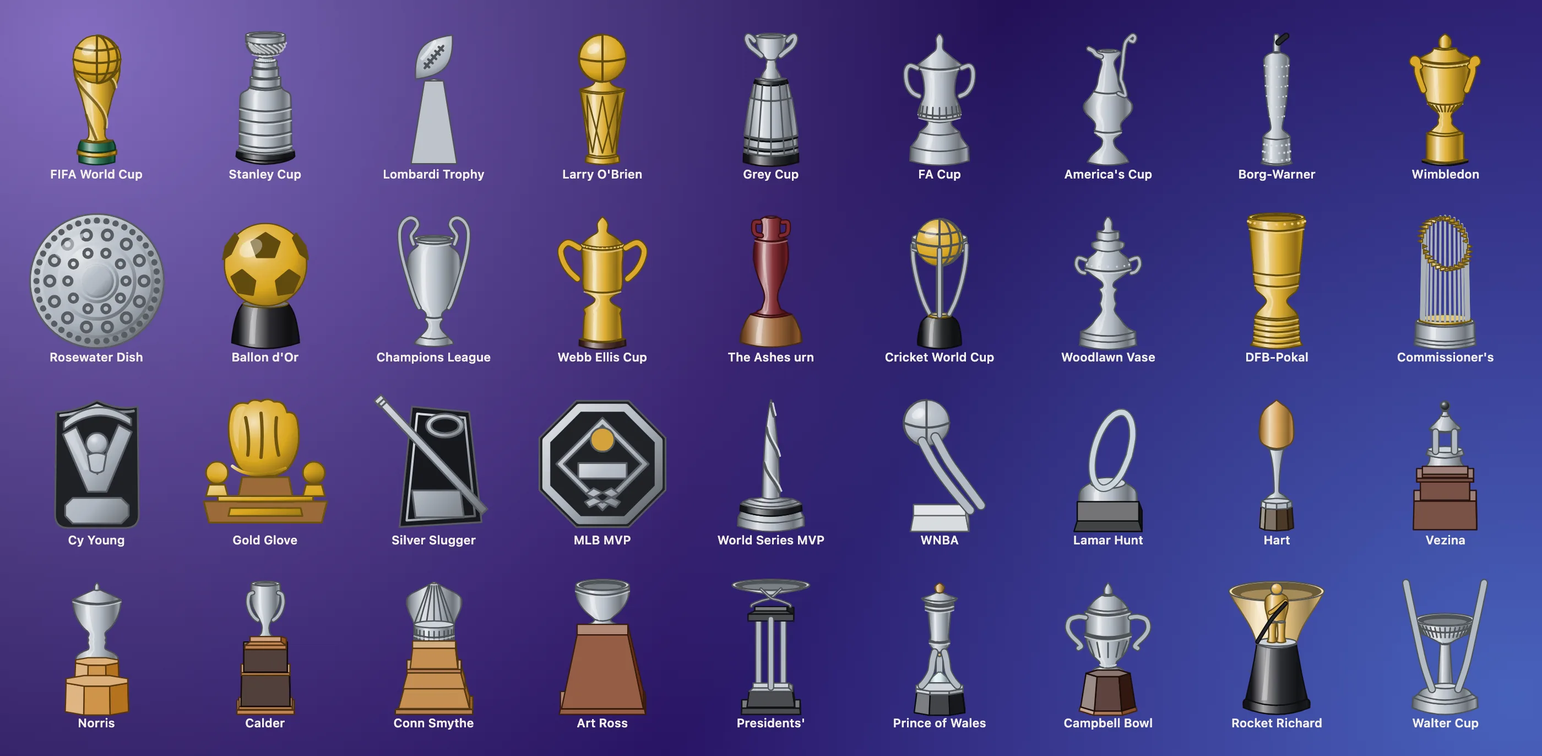
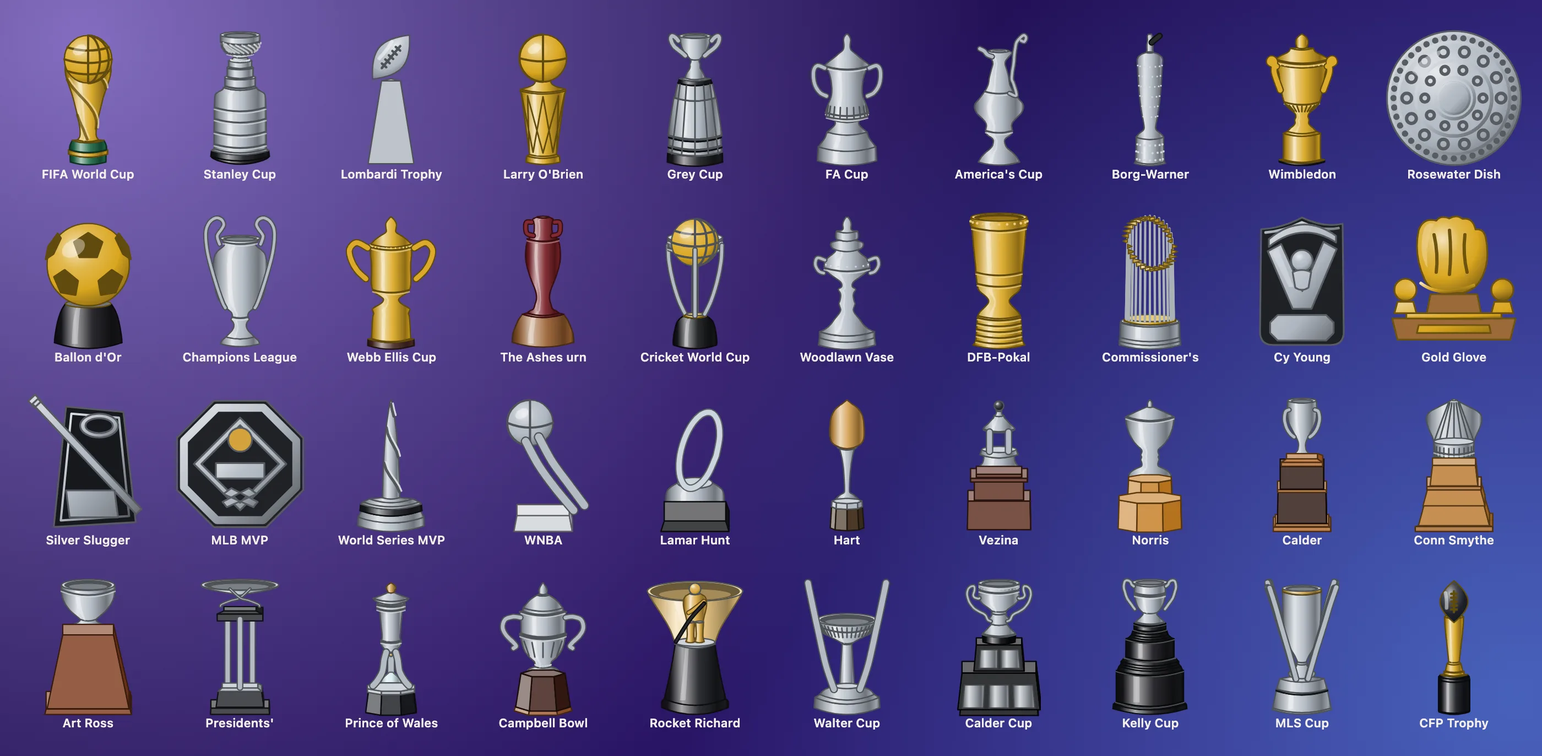
feat(trophy): Calder, Kelly, MLS Cup and CFP
Four league championship trophies measured on photographs of the real ones: the AHL's Calder Cup, the ECHL's Kelly Cup, the MLS Cup and the College Football Playoff trophy. Japanese names and descriptions reviewed.

diff --git a/scripts/screenshots.ts b/scripts/screenshots.ts
@@ -105,7 +105,7 @@ try {
     const styled = ["trophy:hockey-cup", "trophy:rugby-cup", "trophy:tennis-cup"].flatMap((id) => D.EMBLEM_STYLES.map((style) => one(id, { style, size: 144 }, style))).join("");
     return row(cups, 144) + row(awards, 144) + row(medals, 124) + styled;
   };
-  // Balls and pucks: soccer in its constructions and colours, the ball of every big sport, the small ones, and the odd ones out. Thirty-six, four rows of nine.
+  // Balls and pucks: soccer in its constructions and colours, the ball of every big sport, the small ones, and the odd ones out. Forty, four rows of ten.
   const balls = (D: Dist) => ["ball:soccer", "ball:soccer-26", "ball:soccer-14", "ball:soccer-6", "ball:soccer-orange", "ball:soccer-12-yellow", "ball:soccer-colour", "ball:futsal", "ball:beach-soccer",
     "ball:basketball", "ball:basketball-3x3", "ball:baseball", "ball:softball", "ball:football", "ball:rugby", "ball:afl", "ball:volleyball", "ball:beach-volleyball",
     "ball:tennis", "ball:padel", "ball:pickleball-outdoor", "ball:squash", "ball:racquetball", "ball:golf", "ball:cricket-red", "ball:cricket-pink", "ball:water-polo",
@@ -115,11 +115,11 @@ try {
   const vintage = (D: Dist) => ["ball:soccer-1870-hand-stitched", "ball:soccer-1900-laced", "ball:soccer-1930-18-panel", "ball:soccer-1950-12-panel", "ball:soccer-1960-32-panel-leather", "ball:baseball-lemon-peel", "ball:baseball-red-blue", "ball:baseball-black-red", "ball:baseball-vintage-leather",
     "ball:soccer-retro-pentagons", "ball:soccer-retro-leaves", "ball:soccer-retro-rosette", "ball:soccer-retro-star", "ball:soccer-retro-pinwheel", "ball:soccer-retro-kites", "ball:soccer-14-panel-double-border", "ball:soccer-8-panel-plain", "ball:soccer-6-panel-bands"]
     .map((id) => `<figure style="margin:0;display:flex;align-items:center;justify-content:center">${D.renderEmblem(id, { size: 146 })}</figure>`).join("");
-  // The famous trophies, each a likeness measured on a photograph (docs/likeness.md), with its name: the world's thirteen, the leagues' own and the NHL's main ones. Thirty-six, four rows of nine.
+  // The famous trophies, each a likeness measured on a photograph (docs/likeness.md), with its name: the world's thirteen, the leagues' own and the NHL's main ones. Forty, four rows of ten.
   const famous = (D: Dist, ink: Ink) => ([["fifa-world-cup", "FIFA World Cup"], ["stanley-cup", "Stanley Cup"], ["lombardi-trophy", "Lombardi Trophy"], ["larry-obrien-trophy", "Larry O'Brien"], ["grey-cup", "Grey Cup"], ["fa-cup", "FA Cup"], ["americas-cup", "America's Cup"], ["borg-warner-trophy", "Borg-Warner"], ["wimbledon-gentlemens-trophy", "Wimbledon"],
     ["venus-rosewater-dish", "Rosewater Dish"], ["ballon-dor", "Ballon d'Or"], ["champions-league-trophy", "Champions League"], ["webb-ellis-cup", "Webb Ellis Cup"], ["ashes-urn", "The Ashes urn"], ["cricket-world-cup", "Cricket World Cup"], ["woodlawn-vase", "Woodlawn Vase"], ["dfb-pokal", "DFB-Pokal"],
     ["commissioners-trophy", "Commissioner's"], ["cy-young-award", "Cy Young"], ["gold-glove-award", "Gold Glove"], ["silver-slugger-award", "Silver Slugger"], ["mlb-mvp-award", "MLB MVP"], ["world-series-mvp-trophy", "World Series MVP"], ["wnba-championship-trophy", "WNBA"], ["lamar-hunt-trophy", "Lamar Hunt"],
-    ["hart-trophy", "Hart"], ["vezina-trophy", "Vezina"], ["norris-trophy", "Norris"], ["calder-trophy", "Calder"], ["conn-smythe-trophy", "Conn Smythe"], ["art-ross-trophy", "Art Ross"], ["presidents-trophy", "Presidents'"], ["prince-of-wales-trophy", "Prince of Wales"], ["campbell-bowl", "Campbell Bowl"], ["rocket-richard-trophy", "Rocket Richard"], ["walter-cup", "Walter Cup"]] as const)
+    ["hart-trophy", "Hart"], ["vezina-trophy", "Vezina"], ["norris-trophy", "Norris"], ["calder-trophy", "Calder"], ["conn-smythe-trophy", "Conn Smythe"], ["art-ross-trophy", "Art Ross"], ["presidents-trophy", "Presidents'"], ["prince-of-wales-trophy", "Prince of Wales"], ["campbell-bowl", "Campbell Bowl"], ["rocket-richard-trophy", "Rocket Richard"], ["walter-cup", "Walter Cup"], ["calder-cup", "Calder Cup"], ["kelly-cup", "Kelly Cup"], ["mls-cup", "MLS Cup"], ["cfp-trophy", "CFP Trophy"]] as const)
     .map(([id, name]) => `<figure style="margin:0;display:flex;flex-direction:column;align-items:center;justify-content:center">${D.renderEmblem(`trophy:${id}`, { size: 128 })}<figcaption style="margin-top:-2px;color:${ink.muted}">${name}</figcaption></figure>`).join("");
   // Gear: thirty-six of the pieces.
   const gear = (D: Dist) => ["gear:hockey-stick", "gear:hockey-skate", "gear:goalie-mask", "gear:field-hockey-stick", "gear:lacrosse-stick", "gear:hurley", "gear:cricket-bat", "gear:wicket", "gear:baseball-bat",
@@ -148,7 +148,7 @@ try {
     await sheet(`balls-desk-${scheme}`, { width: 1400, cols: 9, rows: [150, 150, 150, 150], scheme, preset: "floodlights", intensity: 0.9 }, balls);
     await sheet(`vintage-desk-${scheme}`, { width: 1400, cols: 9, rows: [150, 150], scheme, preset: "sunburst" }, vintage);
     await sheet(`hero-desk-${scheme}`, { width: 1400, cols: 9, rows: [152, 152, 132, 160], scheme, preset: "royal", intensity: 0.9 }, trophies);
-    await sheet(`famous-desk-${scheme}`, { width: 1400, cols: 9, rows: [160, 160, 160, 160], scheme, preset: "royal", intensity: 0.9 }, famous);
+    await sheet(`famous-desk-${scheme}`, { width: 1400, cols: 10, rows: [160, 160, 160, 160], scheme, preset: "royal", intensity: 0.9 }, famous);
     await sheet(`gear-desk-${scheme}`, { width: 1400, cols: 9, rows: [150, 150, 150, 150], scheme, preset: scheme === "dark" ? "carbon" : "hardwood", intensity: scheme === "dark" ? 1 : 0.9 }, gear);
     await sheet(`phone-${scheme}`, { width: 390, cols: 3, rows: [124, 124, 124, 124], gap: 4, phone: true, scheme, preset: "glow" }, phoneCells);
     await sheet(`judogi-${scheme}`, { width: 1000, cols: 4, rows: [260], gap: 10, pad: 20, scheme, preset: scheme === "dark" ? "carbon" : "hardwood", intensity: scheme === "dark" ? 1 : 0.9 }, judogi);

diff --git a/src/emblems/emblem.descriptions.ts b/src/emblems/emblem.descriptions.ts
@@ -134,6 +134,10 @@ export const EMBLEM_DESCRIPTIONS: Readonly<Partial<Record<EmblemId, EmblemDescri
   "trophy:ashes-urn": { en: "The Ashes urn: a small terracotta urn with square handles on a turned wooden base.", ja: "テラコッタの小さな壺を描いています。四角い取っ手が付き、旋盤で削り出した木の台に載っています。イングランドとオーストラリアが戦うアッシズ・シリーズの象徴として、ローズ・クリケット・グラウンドに保管されています。" },
   "trophy:webb-ellis-cup": { en: "The Webb Ellis Cup: a gilt lidded two-handled cup with a pineapple finial on a round plinth.", ja: "金色のふた付きカップを描いています。取っ手が二つあり、ふたの上にパイナップル形の飾りが付いて、丸い台座に載っています。男子のラグビーワールドカップの優勝チームに贈られます。" },
   "trophy:champions-league-trophy": { en: "The UEFA Champions League trophy: a tall silver urn with two long looping handles.", ja: "UEFAチャンピオンズリーグ・トロフィー。長い取っ手が二つ輪を描く、背の高い銀の壺を描いています。UEFAチャンピオンズリーグの優勝クラブに贈られます。" },
+  "trophy:calder-cup": { en: "The Calder Cup: a two-handled silver bowl with a band of laurel leaves round its rim, on a knobbed stem that flares to a bell, over a black round plinth and two stepped black blocks with plates.", ja: "カルダー・カップは、縁に月桂樹の葉の帯をめぐらせ、持ち手が2つある銀色のボウルが、こぶのある脚の上に載る姿を描いています。脚は鐘の形に広がり、黒い丸い台座と、板をはめた2段の黒い角台の上に立っています。アメリカン・ホッケー・リーグ（AHL）の優勝チームに贈られます。" },
+  "trophy:kelly-cup": { en: "The Kelly Cup: a small two-handled silver cup with two thin rings under its lip, on a stack of three black drums with silver-edged plate bands, the lowest the widest.", ja: "ケリー・カップは、口縁の下に細い輪を2本めぐらせ、持ち手が2つある小さな銀色のカップが、銀で縁取った板の帯を巻いた3段の黒い円筒の台座の上に立つ姿を描いています。下の段ほど幅が広くなっています。ECHLの優勝チームに贈られます。" },
+  "trophy:cfp-trophy": { en: "The College Football Playoff trophy: an upright dark football with a gilt rim on a tall slim gold column that narrows to a small collar, over a black drum with a plate band.", ja: "CFPトロフィーは、縁が金色で縦に立てた黒いフットボールが、背の高い細い金色の柱の上に載る姿を描いています。柱は上へ細くすぼまって小さな受け皿になり、板の帯を巻いた黒い円筒の台座の上に立っています。カレッジフットボール・プレーオフの全米王者に贈られます。" },
+  "trophy:mls-cup": { en: "The MLS Cup: a tall silver goblet with a gilt rim on a flared round pedestal with one dark groove, and four fluted blades that rise from its stem and lean out past the rim.", ja: "MLSカップは、金色の縁をもつ背の高い銀色のゴブレットが、裾の広がった丸い台座の上に載る姿を描いています。台座には溝が1本刻まれています。脚から立ち上がる溝入りの4枚の羽根状の飾りが、縁の外側へ傾いています。メジャーリーグサッカー（MLS）のプレーオフの優勝クラブに贈られます。" },
   "trophy:championship-banner": { en: "A fringed banner on a pole with a gilt finial and an embroidered border, with no lettering unless some is given", ja: "金の先端飾りの付いた竿に掛けた、刺繍の縁と房の付いた旗。文字は指定したときだけ入る" },
   "sport:sumo": { en: "Two wrestlers in the crouch they face each other in at the start of a bout, with their belts", ja: "仕切りの姿勢で向かい合う、廻しを締めた二人の力士" },
   "sport:handball": { en: "A hand throwing the ball, with lines of speed", ja: "ボールを投げる手と、速さを表す線" },

diff --git a/src/emblems/trophy/kelly-cup.ts b/src/emblems/trophy/kelly-cup.ts
@@ -1,0 +1,34 @@
+// A small two-handled silver cup with a straight-sided bowl, two thin rings under its lip and a short flared foot, standing on a black stack of three drums, each wrapped in a plate band edged with silver, the lowest the widest, on a flat black disc. Drawn for this package
+// from a photograph of the cup on its base (docs/likeness.md): the heights and radii are measured on it, and the plate bands are left plain, for the engraving option.
+import { defineLathe } from "../emblem.lathe.ts";
+
+/** The Kelly Cup of the ECHL: a two-handled silver cup on three black drums with silver-edged bands. */
+export const TROPHY_KELLY_CUP = /* @__PURE__ */ defineLathe("trophy:kelly-cup", "Kelly Cup", "ケリー・カップ", "ours", {
+  metal: "silver",
+  box: "-1.3 -0.7 66.6 66.6",
+  turnBox: "-13.1 -10.7 90.2 90.2",
+  tones: { dark: "#17181c" },
+  tilt: 9,
+  solids: [
+    {
+      open: true,
+      p: [
+        [1.95, 8.2, 1], [2.4, 8.4], [2.9, 8.2, 1], [3.1, 7.4, 1], [4.5, 7.35], [9, 7.3], [9.4, 7.1], [11, 6.7], [12.6, 6.2], [14.2, 5.4], [15.2, 4.6], [15.9, 3.8], [16.4, 3.3, 1], [17.3, 3.2],
+        [17.7, 3.6], [18.3, 4.2], [19.1, 4.9], [19.9, 5.9], [20.5, 6.5], [20.8, 6.7, 1],
+        [21.1, 7, 1, "dark"], [21.6, 7.5, 1, "dark"], [21.7, 7.5, 1, "main"], [22, 7.5, 1, "main"], [22.1, 7.5, 1, "dark"], [24.2, 7.5, 1, "dark"], [24.3, 7.5, 1, "main"], [24.6, 7.5, 1, "main"],
+        [24.7, 7.8, 1, "dark"], [25.4, 8.2, 1, "dark"], [26.8, 8.6, 1, "dark"], [27.8, 9.5, 1, "dark"], [28.6, 10.6, 1, "dark"],
+        [28.7, 11.35, 1, "main"], [29.1, 11.35, 1, "main"], [29.2, 11.35, 1, "dark"], [37.3, 11.4, 1, "dark"], [37.4, 11.4, 1, "main"], [37.8, 11.4, 1, "main"],
+        [37.9, 12.2, 1, "dark"], [39.5, 13.6, 1, "dark"], [40.8, 13.7, 1, "dark"], [41.8, 14.6, 1, "dark"], [43.6, 15.4, 1, "dark"],
+        [43.7, 15.9, 1, "main"], [44.1, 15.9, 1, "main"], [44.2, 15.9, 1, "dark"], [58.2, 15.9, 1, "dark"], [58.3, 15.9, 1, "main"], [58.7, 15.9, 1, "main"],
+        [58.8, 16.2, 1, "dark"], [59.6, 17.2, 1, "dark"], [61.7, 17.5, 1, "dark"],
+      ],
+      decor: [["ring", 7.1], ["ring", 7.9]],
+    },
+  ],
+  handles: [90, -90].map((a) => ({
+    a,
+    w: 1.0,
+    pts: [[7.6, 3.95], [8.6, 3.2], [9.2, 1.9], [10.5, 1.15], [11.8, 1.6], [12.3, 3.4], [12.2, 5.3], [11.9, 6.2], [10.9, 9.4], [8.7, 12.6], [7.1, 14.8]] as const,
+  })),
+  plate: { y0: 44.2, y1: 58.2 },
+});

diff --git a/src/emblems/trophy/calder-cup.ts b/src/emblems/trophy/calder-cup.ts
@@ -1,0 +1,33 @@
+// A silver two-handled bowl with a band of laurel leaves round its rim, on a knobbed stem that flares to a bell over a black round plinth, standing on two black blocks of wood, the upper narrower than the lower, each with plates on its faces. Drawn for this package from
+// photographs of the cup (docs/likeness.md): the heights and radii are measured on them, and the plates, the lettering and the laurel's leaves are left plain.
+import { defineLathe } from "../emblem.lathe.ts";
+import { LATHE_EXTRAS } from "../lathe.extras.ts";
+
+/** The Calder Cup of the American Hockey League: a two-handled bowl with a laurel band on a knobbed stem, over a black plinth and two stepped black blocks. */
+export const TROPHY_CALDER_CUP = /* @__PURE__ */ defineLathe("trophy:calder-cup", "Calder Cup", "カルダー・カップ", "ours", {
+  extras: LATHE_EXTRAS,
+  metal: "silver",
+  turnBox: "-14.9 -8.7 93.9 93.9",
+  tones: { dark: "#08090b", plate: "#9aa1a8" },
+  tilt: 9,
+  solids: [
+    { sides: 4, turn: -45, tone: "dark", p: [[29.5, 14.5, 1, "dark"], [41.2, 16.1, 1, "dark"], [41.2, 23.8, 1, "dark"], [57.6, 26.4, 1, "dark"], [57.6, 24.8, 1, "dark"], [60.3, 25.2, 1, "dark"]],
+      decor: [["panel", 0, 31.7, 39.9, 0.1, 0.47, "plate"], ["panel", 0, 31.7, 39.9, 0.54, 0.92, "plate"], ["panel", 0, 46.6, 56.8, 0.053, 0.31, "plate"], ["panel", 0, 46.6, 56.8, 0.375, 0.625, "plate"], ["panel", 0, 46.6, 56.8, 0.684, 0.94, "plate"]] },
+    {
+      open: true,
+      p: [
+        [3, 9.3, 1], [3.5, 9.1], [6.2, 9.1, 1], [6.6, 8.7, 1], [7.6, 9.1], [8.5, 9.3], [10.5, 9], [12.6, 7.4], [14.8, 4.2], [15.7, 3.2, 1],
+        [16.9, 3.4, 1], [17.6, 3.2], [18.5, 4], [19.4, 4.6], [20.4, 4.1], [21.2, 3.4], [21.7, 3.5, 1],
+        [22.5, 4.2], [23.5, 5], [24.8, 6.4], [26, 7.5, 1], [26.4, 7.6, 1],
+        [26.5, 7.5, 1, "dark"], [28.5, 7.4, 0, "dark"], [29.8, 7.3, 1, "dark"],
+      ],
+      decor: [["ring", 3.5], ["ring", 6.2], ["dots", 4.85, 30, 0.45]],
+    },
+  ],
+  handles: [90, -90].map((a) => ({
+    a,
+    w: 0.8,
+    pts: [[3.7, 20.4], [5.1, 19.7], [5.9, 18], [7.1, 16.9], [9, 16], [11.2, 14.6], [13.1, 12.3], [14, 10.3], [14.5, 8], [14.1, 6], [13.1, 4.8], [11.7, 4.4], [11.1, 5.05], [11.2, 6.6], [11.7, 8.5], [11.1, 9.6], [9.4, 10.05], [8.8, 9.9]] as const,
+  })),
+  plate: { y0: 46.5, y1: 56.5, face: 0 },
+});

diff --git a/src/emblems/emblem.named.ts b/src/emblems/emblem.named.ts
@@ -526,6 +526,46 @@ export const NAMED_TROPHIES: readonly NamedTrophy[] = [
     first: "1976",
     reference: "An auction photograph of a 1981 trophy standing on its base (SCP Auctions lot image), looked at and measured only; not copied; not ours to licence. No photograph on Wikimedia Commons (searched 2026-10-27).",
   },
+  {
+    id: "trophy:calder-cup",
+    name: "Calder Cup",
+    sport: "hockey",
+    competition: "American Hockey League",
+    kind: "champion",
+    honours: "The champion of the AHL's playoffs.",
+    first: "1936-37",
+    reference: "File:LAM 8801 (16408891091).jpg (Wikimedia Commons, CC BY 2.0) for the profile, with File:Calder Cup.JPG (CC BY 3.0) and File:Calder Cup at Crouse Hospital in Syracuse, New York (8960910887).jpg (CC BY-SA 2.0); looked at and measured only; not copied.",
+  },
+  {
+    id: "trophy:kelly-cup",
+    name: "Kelly Cup",
+    sport: "hockey",
+    competition: "ECHL",
+    kind: "champion",
+    honours: "The champion of the ECHL's playoffs (the Patrick J. Kelly Cup).",
+    first: "1997",
+    reference: "File:Kelly Cup.jpg (Wikimedia Commons, CC BY-SA 3.0), looked at and measured only; not copied.",
+  },
+  {
+    id: "trophy:cfp-trophy",
+    name: "College Football Playoff National Championship Trophy",
+    sport: "football",
+    competition: "College Football Playoff",
+    kind: "champion",
+    honours: "The national champion of NCAA Division I college football (FBS).",
+    first: "2015",
+    reference: "File:2019 CFP - trophy on the sidelines (crop).jpg (Wikimedia Commons, CC BY-SA 4.0), a photograph of the trophy standing at a distance, looked at and measured only; not copied.",
+  },
+  {
+    id: "trophy:mls-cup",
+    name: "MLS Cup",
+    sport: "soccer",
+    competition: "Major League Soccer",
+    kind: "champion",
+    honours: "The champion of Major League Soccer's playoffs (the Philip F. Anschutz Trophy).",
+    first: "1996",
+    reference: "File:KC Ballet & Sporting KC (11232058043).jpg (Wikimedia Commons, CC BY 2.0), looked at and measured only; not copied.",
+  },
 ];
 
 /** The facts of a named trophy by its emblem id, or `undefined` for a generic trophy. */

diff --git a/src/emblems/trophy/mls-cup.ts b/src/emblems/trophy/mls-cup.ts
@@ -1,0 +1,26 @@
+// A tall silver goblet with a gilt rim, narrowing to a slim stem and a small knob, on a flared round pedestal with one dark groove, with four slender fluted blades that rise from the knob and lean out past the rim, each a few parallel strips,
+// two in front and two behind. Drawn for this package from photographs of the trophy (docs/likeness.md): the blades are bundles of tubes, the fluting is left to the strips, and the plate on the pedestal and the stars are left out.
+import { defineLathe } from "../emblem.lathe.ts";
+
+const BLADE = [[3.2, 47.4], [7.3, 34.2], [10.8, 23.8], [14.2, 13.3], [17.6, 4]] as const;
+const strips = (a: number) => [-3.4, 0, 3.4].map((d) => ({ a: a + d, w: 2, pts: BLADE }));
+
+/** The MLS Cup (the Philip F. Anschutz Trophy): a tall silver goblet with a gilt rim on a flared pedestal, with four fluted blades leaning out from its stem. */
+export const TROPHY_MLS_CUP = /* @__PURE__ */ defineLathe("trophy:mls-cup", "MLS Cup", "MLSカップ", "ours", {
+  metal: "silver",
+  box: "-0.8 0 65.6 65.6",
+  turnBox: "-13.3 -14.2 90.5 90.5",
+  tones: { gilt: "#c9a24a", dark: "#2a2c31" },
+  tilt: 9,
+  solids: [
+    {
+      open: true,
+      p: [
+        [5.5, 9, 1, "gilt"], [7.2, 9.1, 1, "gilt"], [7.3, 9.05, 1, "main"], [13.3, 9], [20.3, 8.8], [27.2, 7.8], [30.7, 6.5], [34.2, 5], [36.3, 3.6], [38.4, 2.6], [39.8, 2, 1], [40.8, 2.6, 1], [41.7, 2.2], [43.8, 5.2], [45, 6.6], [46.7, 5.4, 1],
+        [47.6, 10.3, 1], [52.1, 11.7], [52.4, 11.8, 1, "dark"], [53.2, 12, 1, "dark"], [53.3, 12, 1, "main"], [61.2, 13.6, 1], [62, 13.8, 1],
+      ],
+    },
+  ],
+  handles: [...strips(62), ...strips(-62), ...strips(118), ...strips(-118)],
+  plate: { y0: 55, y1: 60 },
+});

diff --git a/src/emblems/trophy/cfp-trophy.ts b/src/emblems/trophy/cfp-trophy.ts
@@ -1,0 +1,22 @@
+// An upright dark football with a gilt rim, set on a tall slim column of gold that is widest under the ball and narrows toward a small flared collar, over a black round drum with a plate band. Drawn for this package from photographs
+// of the trophy standing on its base (docs/likeness.md), at a distance, so it is approximate: the ball's laces are the engine's, and the lettering and the marks on the drum and the column are left out.
+import { defineLathe } from "../emblem.lathe.ts";
+
+/** The College Football Playoff national championship trophy: an upright football on a tall gold column that narrows to a collar, over a black drum. */
+export const TROPHY_CFP_TROPHY = /* @__PURE__ */ defineLathe("trophy:cfp-trophy", "CFP Trophy", "CFPトロフィー", "ours", {
+  metal: "gold",
+  box: "-0.4 0 64.7 64.7",
+  turnBox: "-3.1 0 70 70",
+  tones: { dark: "#14161b", ball: "#1c2029" },
+  tilt: 9,
+  solids: [
+    {
+      p: [
+        [18.5, 4.4, 1], [24, 4.1], [32, 3.2], [39.2, 2.4, 1], [40.1, 3.2, 1], [43.4, 4, 1], [43.6, 4.6, 1], [45, 4.6, 1],
+        [45.1, 6.2, 1, "dark"], [46, 7, 1, "dark"], [47.5, 7.15, 1, "dark"], [61.7, 7.15, 1, "dark"], [62.2, 6.9, 1, "dark"],
+      ],
+    },
+  ],
+  balls: [{ kind: "football", cx: 32, cy: 11.6, r: 6.35, ry: 9.6, tone: "ball" }],
+  plate: { y0: 48, y1: 58, face: 0 },
+});

diff --git a/src/emblems/emblem.registry.ts b/src/emblems/emblem.registry.ts
@@ -72,6 +72,10 @@ import { TROPHY_FIFA_WORLD_CUP } from "./trophy/fifa-world-cup.ts";
 import { TROPHY_WOODLAWN_VASE } from "./trophy/woodlawn-vase.ts";
 import { TROPHY_DFB_POKAL } from "./trophy/dfb-pokal.ts";
 import { TROPHY_CHAMPIONS_LEAGUE_TROPHY } from "./trophy/champions-league-trophy.ts";
+import { TROPHY_CALDER_CUP } from "./trophy/calder-cup.ts";
+import { TROPHY_KELLY_CUP } from "./trophy/kelly-cup.ts";
+import { TROPHY_CFP_TROPHY } from "./trophy/cfp-trophy.ts";
+import { TROPHY_MLS_CUP } from "./trophy/mls-cup.ts";
 import { TROPHY_WEBB_ELLIS_CUP } from "./trophy/webb-ellis-cup.ts";
 import { TROPHY_FA_CUP } from "./trophy/fa-cup.ts";
 import { TROPHY_CRICKET_WORLD_CUP } from "./trophy/cricket-world-cup.ts";
@@ -182,6 +186,10 @@ const OWN: Readonly<Record<Exclude<EmblemId, `ball:${string}` | `puck:${string}`
   "trophy:fa-cup": TROPHY_FA_CUP,
   "trophy:webb-ellis-cup": TROPHY_WEBB_ELLIS_CUP,
   "trophy:champions-league-trophy": TROPHY_CHAMPIONS_LEAGUE_TROPHY,
+  "trophy:calder-cup": TROPHY_CALDER_CUP,
+  "trophy:kelly-cup": TROPHY_KELLY_CUP,
+  "trophy:cfp-trophy": TROPHY_CFP_TROPHY,
+  "trophy:mls-cup": TROPHY_MLS_CUP,
   "trophy:dfb-pokal": TROPHY_DFB_POKAL,
   "trophy:woodlawn-vase": TROPHY_WOODLAWN_VASE,
   "trophy:fifa-world-cup": TROPHY_FIFA_WORLD_CUP,

diff --git a/test/emblem.test.ts b/test/emblem.test.ts
@@ -24,10 +24,10 @@ const NAMED_LIMIT = { metal: 9000, line: 4800, color: 7200 } as const;
 const BIG_LIMIT = { metal: 14000, line: 13000, color: 14000 } as const;
 const isPiece = (id: D.EmblemId): boolean => D.emblemInfo(id).kind === "ball" || D.emblemInfo(id).kind === "gear";
 
-test("the ids number 330 in their groups, with no id twice, and the groups hold what they say", () => {
+test("the ids number 334 in their groups, with no id twice, and the groups hold what they say", () => {
   assert.equal(new Set(D.EMBLEM_IDS).size, D.EMBLEM_IDS.length);
-  assert.equal(D.EMBLEM_IDS.length, 330);
-  assert.deepEqual(Object.fromEntries(Object.entries(D.EMBLEM_GROUPS).map(([group, ids]) => [group, ids.length])), { award: 6, trophy: 74, medal: 6, crest: 4, ball: 118, puck: 8, gear: 71, sport: 42, pennant: 1 });
+  assert.equal(D.EMBLEM_IDS.length, 334);
+  assert.deepEqual(Object.fromEntries(Object.entries(D.EMBLEM_GROUPS).map(([group, ids]) => [group, ids.length])), { award: 6, trophy: 78, medal: 6, crest: 4, ball: 118, puck: 8, gear: 71, sport: 42, pennant: 1 });
 });
 
 // The ids of the trophies drawn as a likeness of one real trophy (docs/likeness.md): they may carry the trophy's own name, and so are held to the limits of a detailed drawing.

diff --git a/src/index.ts b/src/index.ts
@@ -77,6 +77,10 @@ export { TROPHY_FIFA_WORLD_CUP } from "./emblems/trophy/fifa-world-cup.ts";
 export { TROPHY_WOODLAWN_VASE } from "./emblems/trophy/woodlawn-vase.ts";
 export { TROPHY_DFB_POKAL } from "./emblems/trophy/dfb-pokal.ts";
 export { TROPHY_CHAMPIONS_LEAGUE_TROPHY } from "./emblems/trophy/champions-league-trophy.ts";
+export { TROPHY_CALDER_CUP } from "./emblems/trophy/calder-cup.ts";
+export { TROPHY_KELLY_CUP } from "./emblems/trophy/kelly-cup.ts";
+export { TROPHY_CFP_TROPHY } from "./emblems/trophy/cfp-trophy.ts";
+export { TROPHY_MLS_CUP } from "./emblems/trophy/mls-cup.ts";
 export { TROPHY_WEBB_ELLIS_CUP } from "./emblems/trophy/webb-ellis-cup.ts";
 export { TROPHY_FA_CUP } from "./emblems/trophy/fa-cup.ts";
 export { TROPHY_CRICKET_WORLD_CUP } from "./emblems/trophy/cricket-world-cup.ts";

diff --git a/src/emblems/emblem.ids.ts b/src/emblems/emblem.ids.ts
@@ -71,6 +71,10 @@ export const TROPHY_IDS = [
   "trophy:ashes-urn",
   "trophy:borg-warner-trophy",
   "trophy:americas-cup",
+  "trophy:calder-cup",
+  "trophy:kelly-cup",
+  "trophy:cfp-trophy",
+  "trophy:mls-cup",
 ] as const;
 export type TrophyId = (typeof TROPHY_IDS)[number];
 

diff --git a/docs/famous-trophies.md b/docs/famous-trophies.md
@@ -7,7 +7,7 @@ A trophy that stands for one real trophy is drawn as a very close likeness of it
 <p align="center">
 <picture>
 <source media="(prefers-color-scheme: dark)" srcset="https://raw.githubusercontent.com/johnmorrisdotca/dougu-sports/main/docs/images/famous-desk-dark.webp">
-<img alt="Thirty-six named trophies on royal purple, in four rows of nine, each with its name under it: the FIFA World Cup, the Stanley Cup, the Lombardi Trophy, the Larry O'Brien trophy, the Grey Cup, the FA Cup, the America's Cup, the Borg-Warner Trophy and the Wimbledon gentlemen's trophy; then the Venus Rosewater Dish, the Ballon d'Or, the Champions League trophy, the Webb Ellis Cup, the Ashes urn, the Cricket World Cup, the Woodlawn Vase, the DFB-Pokal and the Commissioner's Trophy; then the baseball awards (Cy Young, Gold Glove, Silver Slugger, MLB MVP, World Series MVP), the WNBA trophy, the Lamar Hunt Trophy, the Hart and the Vezina; and last the Norris, Calder, Conn Smythe, Art Ross, Presidents', Prince of Wales, Campbell Bowl, Rocket Richard and Walter Cup." src="https://raw.githubusercontent.com/johnmorrisdotca/dougu-sports/main/docs/images/famous-desk-light.webp" width="760">
+<img alt="Forty named trophies on royal purple, in four rows of ten, each with its name under it: the FIFA World Cup, the Stanley Cup, the Lombardi Trophy, the Larry O'Brien trophy, the Grey Cup, the FA Cup, the America's Cup, the Borg-Warner Trophy and the Wimbledon gentlemen's trophy; then the Venus Rosewater Dish, the Ballon d'Or, the Champions League trophy, the Webb Ellis Cup, the Ashes urn, the Cricket World Cup, the Woodlawn Vase, the DFB-Pokal and the Commissioner's Trophy; then the baseball awards (Cy Young, Gold Glove, Silver Slugger, MLB MVP, World Series MVP), the WNBA trophy, the Lamar Hunt Trophy, the Hart and the Vezina; then the Norris, Calder, Conn Smythe, Art Ross, Presidents', Prince of Wales, Campbell Bowl, Rocket Richard and Walter Cup; and the Calder Cup, the Kelly Cup, the MLS Cup and the college football playoff trophy." src="https://raw.githubusercontent.com/johnmorrisdotca/dougu-sports/main/docs/images/famous-desk-light.webp" width="760">
 </picture>
 </p>
 
@@ -31,7 +31,7 @@ console.log(facts.name, facts.sport, facts.first); // Stanley Cup hockey 1893
 ## What is drawn
 
 - **The world's most famous trophies:** the FIFA World Cup, the Woodlawn Vase, the Borg-Warner Trophy, the FA Cup, the America's Cup, the Cricket World Cup, the Gentlemen's Singles Trophy of Wimbledon, the Venus Rosewater Dish, the Ballon d'Or, the DFB-Pokal, the Ashes urn, the Webb Ellis Cup and the UEFA Champions League trophy.
-- **The NHL's:** the Stanley Cup and the Hart, Vezina, Norris, Calder, Art Ross, Conn Smythe, Lady Byng, Selke, Jennings, Masterton, King Clancy, Jack Adams, Presidents', Prince of Wales, Campbell Bowl, Rocket Richard, Ted Lindsay and Lester Patrick trophies, and the Paterson Cup of the PCHA (1912).
-- **The other leagues':** the Lombardi Trophy, the Larry O'Brien Championship Trophy, the Bill Russell Trophy, the Commissioner's Trophy, the Grey Cup, the Cy Young, Gold Glove, Silver Slugger, MLB MVP, World Series MVP, Hank Aaron and Relief Man awards, the Walter Cup, the WNBA Championship Trophy, the Lamar Hunt Trophy, the Avco World Trophy and the O'Brien Cup.
+- **The NHL's:** the Stanley Cup and the Hart, Vezina, Norris, Calder, Art Ross, Conn Smythe, Lady Byng, Selke, Jennings, Masterton, King Clancy, Jack Adams, Presidents', Prince of Wales, Campbell Bowl, Rocket Richard, Ted Lindsay and Lester Patrick trophies, the Paterson Cup of the PCHA (1912), and the Calder Cup of the AHL and the Kelly Cup of the ECHL.
+- **The other leagues':** the Lombardi Trophy, the Larry O'Brien Championship Trophy, the Bill Russell Trophy, the Commissioner's Trophy, the Grey Cup, the Cy Young, Gold Glove, Silver Slugger, MLB MVP, World Series MVP, Hank Aaron and Relief Man awards, the Walter Cup, the WNBA Championship Trophy, the Lamar Hunt Trophy, the Avco World Trophy, the O'Brien Cup, the MLS Cup and the College Football Playoff national championship trophy.
 
 What is still to draw, for want of a usable photograph, is listed in the [trophy audit](./trophy-audit.md), which also says which award of which league has an emblem.
